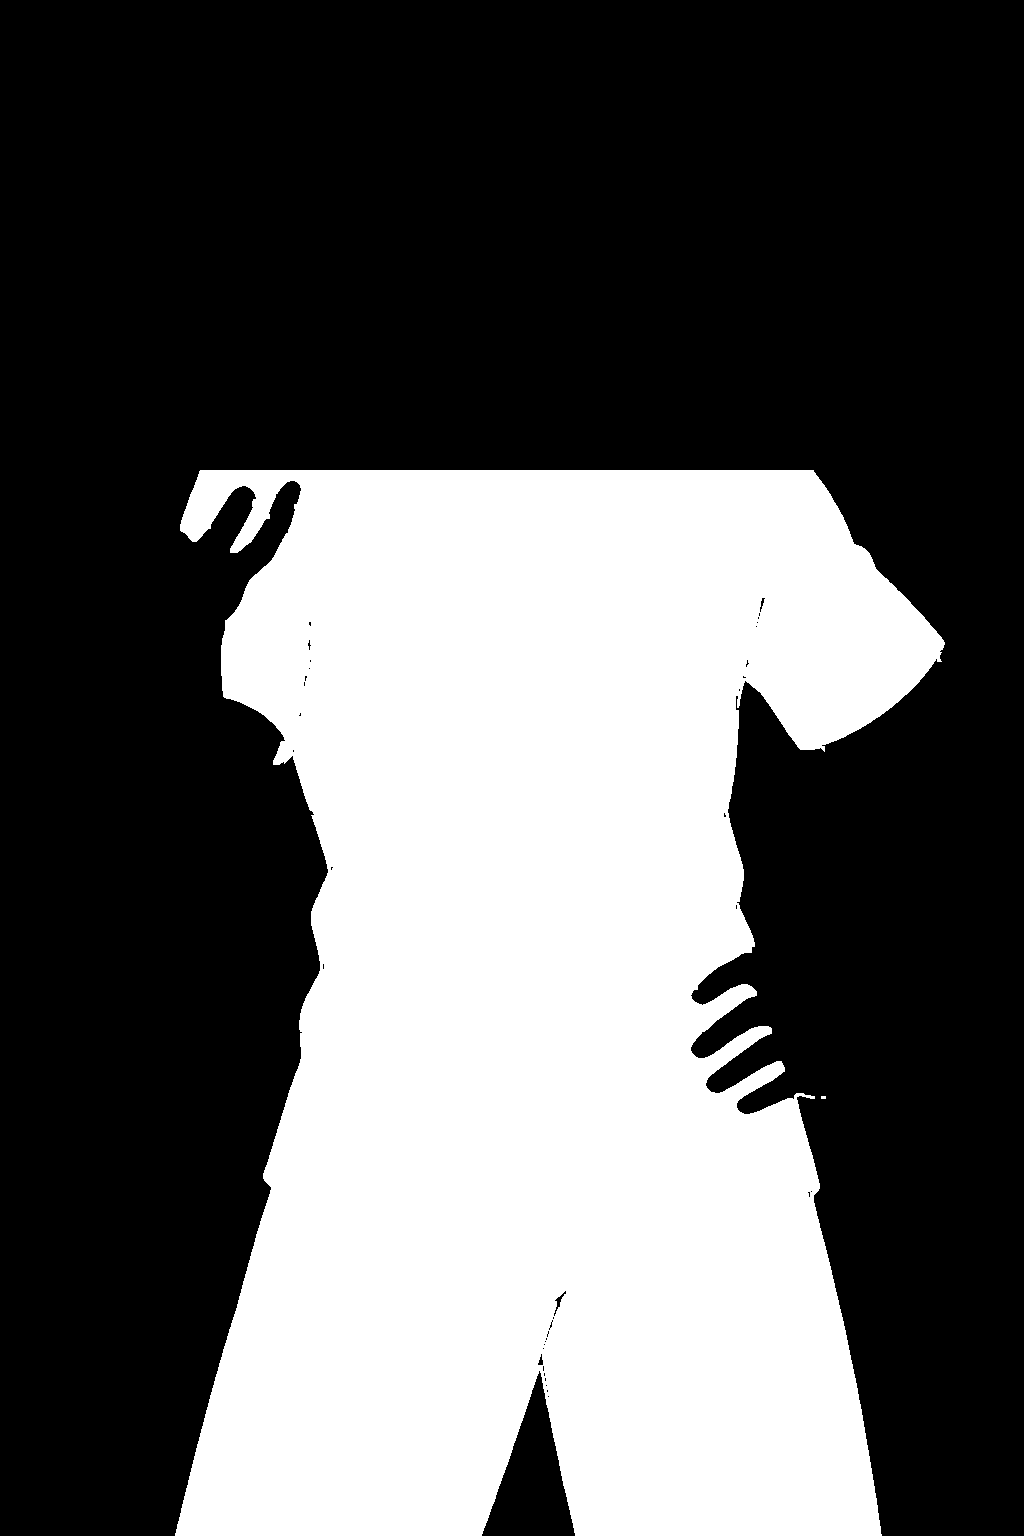
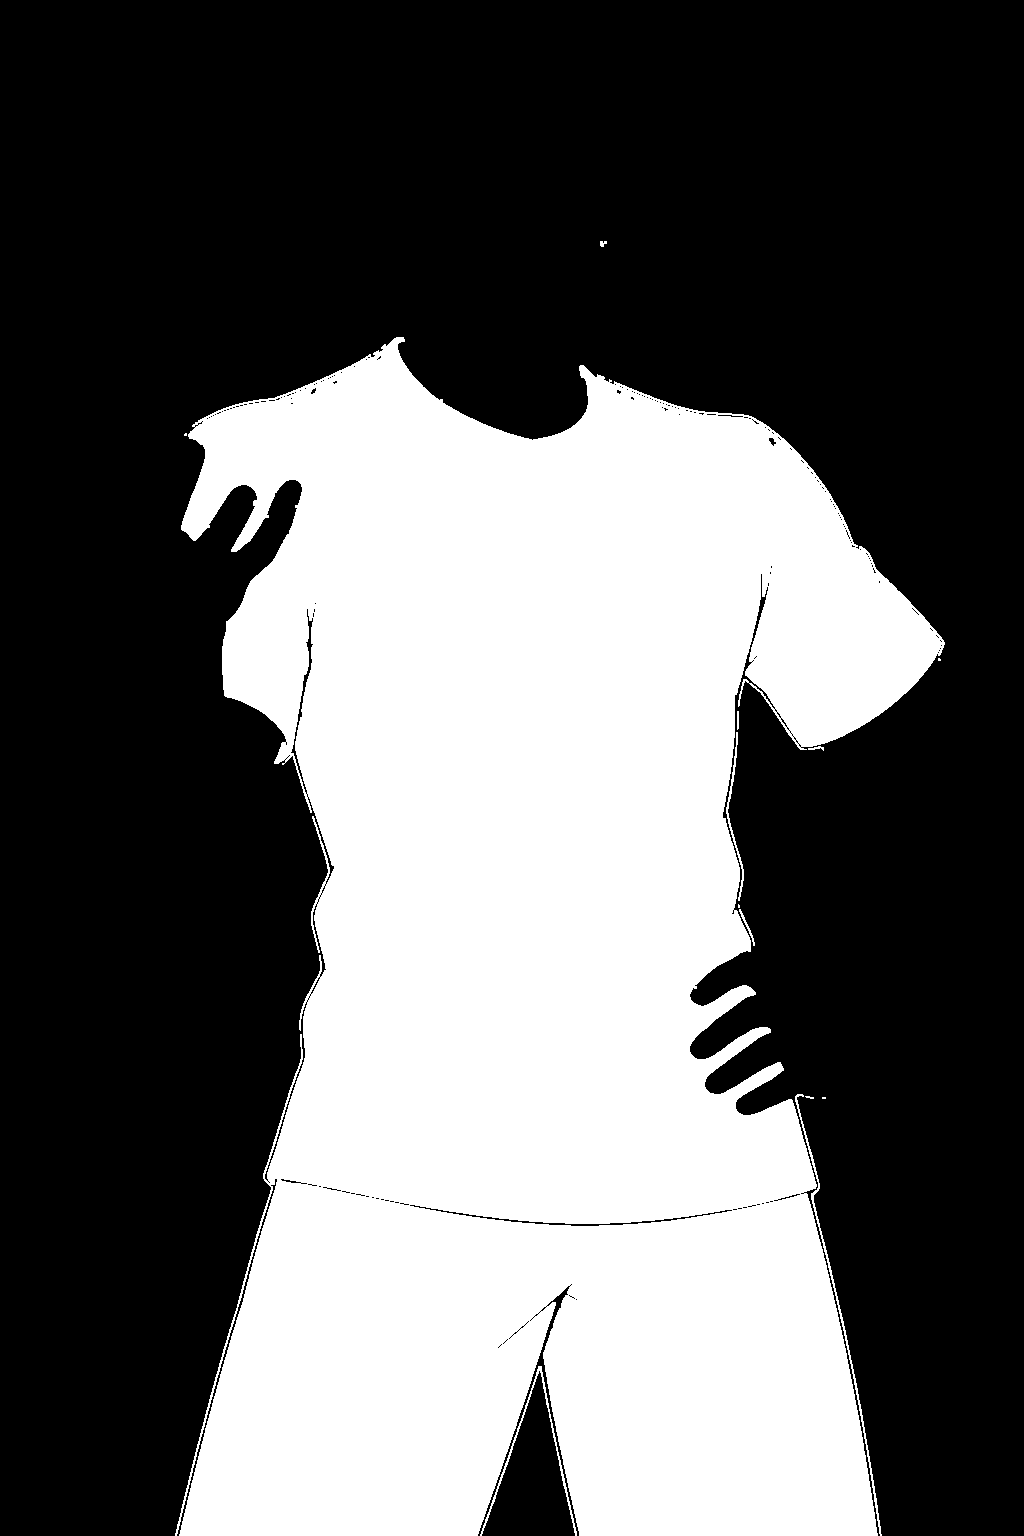
Fix clothing masks clipping collar by removing head Y-cutoff.
Regenerate the 13 Yamal-blocking masks as generated-only and leave them for visual approval before any outfit work.

Changed region(s): [[0.1875, 0.2188, 0.7812, 0.3125], [0.5312, 0.8438, 0.5625, 0.875]]

diff --git a/scripts/test_generate_clothing_mask.py b/scripts/test_generate_clothing_mask.py
@@ -1,0 +1,148 @@
+#!/usr/bin/env python3
+"""Offline regression tests for clothing-mask generation (no head Y-cutoff)."""
+
+from __future__ import annotations
+
+import sys
+import tempfile
+from pathlib import Path
+
+from PIL import Image
+
+sys.path.insert(0, str(Path(__file__).resolve().parent))
+import generate_clothing_mask as gcm
+
+
+def assert_true(cond: bool, message: str) -> None:
+    if not cond:
+        raise AssertionError(message)
+
+
+def solid(rgb: tuple[int, int, int], size: tuple[int, int] = (1, 1)) -> Image.Image:
+    return Image.new("RGBA", size, (*rgb, 255))
+
+
+def test_no_head_ratio_constant() -> None:
+    assert_true(not hasattr(gcm, "HEAD_RATIO"), "HEAD_RATIO must be removed")
+    source = Path(gcm.__file__).read_text(encoding="utf-8")
+    assert_true("head_cut" not in source, "head_cut must be removed from generator")
+    assert_true("HEAD_RATIO" not in source, "HEAD_RATIO must be removed from generator")
+
+
+def make_fixture() -> Image.Image:
+    """Synthetic waist-up character with collar above old 30% cut."""
+    img = Image.new("RGBA", (200, 300), (0, 0, 0, 0))
+    px = img.load()
+    # Opaque character column.
+    for y in range(20, 280):
+        for x in range(60, 140):
+            px[x, y] = (20, 20, 20, 255)
+    # Dark head/neck in top 25% of bbox (old cutoff would hide everything above ~30%).
+    for y in range(20, 70):
+        for x in range(70, 130):
+            px[x, y] = (55, 35, 28, 255)  # dark skin
+    # Collar / shoulder garment ABOVE old 30% cut of bbox height 260 → cut at ~98.
+    # Place collar at y=75-95 (still above 98).
+    for y in range(72, 100):
+        for x in range(65, 135):
+            if 70 <= x <= 130 and y < 72:
+                continue
+            px[x, y] = (0x81, 0x16, 0x2D, 255)  # garnet jersey
+    # Shoulder caps
+    for y in range(95, 120):
+        for x in range(55, 145):
+            if x < 70 or x > 130:
+                px[x, y] = (0x81, 0x16, 0x2D, 255)
+    # Torso
+    for y in range(100, 200):
+        for x in range(70, 130):
+            px[x, y] = (0x81, 0x16, 0x2D, 255)
+    # Short sleeves + adjacent dark arms/hands (must stay out of mask)
+    for y in range(120, 170):
+        for x in range(40, 60):
+            px[x, y] = (50, 32, 26, 255)  # arm skin
+        for x in range(140, 160):
+            px[x, y] = (50, 32, 26, 255)
+    for y in range(110, 145):
+        for x in range(58, 72):
+            px[x, y] = (0x81, 0x16, 0x2D, 255)  # short sleeve
+        for x in range(128, 142):
+            px[x, y] = (0x81, 0x16, 0x2D, 255)
+    # Visible shorts
+    for y in range(200, 250):
+        for x in range(75, 125):
+            px[x, y] = (0x17, 0x21, 0x46, 255)  # navy shorts
+    return img
+
+
+def test_fixture_regions() -> None:
+    img = make_fixture()
+    mask = gcm.build_mask(img)
+    m = mask.load()
+    # 1) Collar/shoulder above old 30% cutoff included
+    assert_true(m[100, 80] >= 128, "collar above old cutoff must be included")
+    assert_true(m[58, 110] >= 128, "left shoulder/sleeve must be included")
+    # 2) Dark head/neck excluded
+    assert_true(m[100, 40] < 128, "dark head/neck must be excluded")
+    # 3) Dark arms/hands excluded
+    assert_true(m[45, 140] < 128, "dark arm must be excluded")
+    assert_true(m[150, 140] < 128, "dark arm must be excluded")
+    # 4) Shorts included
+    assert_true(m[100, 220] >= 128, "shorts must be included")
+    # Torso included
+    assert_true(m[100, 150] >= 128, "torso must be included")
+
+
+def test_generated_status_not_approved(tmp: Path) -> None:
+    # Ensure generate_one always writes status=generated
+    pose = {
+        "id": "synthetic-fixture-pose",
+        "file": "poses/_test/synthetic.png",
+        "sha256": "abc",
+        "approved": True,
+    }
+    pose_dir = gcm.MASCOT / "poses" / "_test"
+    pose_dir.mkdir(parents=True, exist_ok=True)
+    pose_path = pose_dir / "synthetic.png"
+    make_fixture().save(pose_path)
+    try:
+        # monkeypatch pose_path via writing expected relative file
+        record = gcm.generate_one(pose)
+        assert_true(record["status"] == "generated", record)
+        assert_true(record["status"] != "approved", "must never auto-approve")
+        mask_file = gcm.MASCOT / record["file"]
+        assert_true(mask_file.exists(), mask_file)
+    finally:
+        mask_file = gcm.MASCOT / "pose-masks" / "synthetic-fixture-pose.png"
+        if mask_file.exists():
+            mask_file.unlink()
+        if pose_path.exists():
+            pose_path.unlink()
+
+
+def main() -> int:
+    failed = 0
+
+    def run(name, fn):
+        nonlocal failed
+        try:
+            fn()
+            print(f"OK    {name}")
+        except Exception as exc:  # noqa: BLE001
+            failed += 1
+            print(f"FAIL  {name}: {exc}")
+
+    run("no_head_ratio_constant", test_no_head_ratio_constant)
+    run("fixture_regions", test_fixture_regions)
+    with tempfile.TemporaryDirectory() as tmp:
+        run("generated_status_not_approved", lambda: test_generated_status_not_approved(Path(tmp)))
+
+    if failed:
+        print(f"FAIL  {failed} test(s)")
+        return 1
+    print("PASS  clothing mask generator tests")
+    return 0
+
+
+if __name__ == "__main__":
+    sys.exit(main())

diff --git a/scripts/generate_clothing_mask.py b/scripts/generate_clothing_mask.py
@@ -23,7 +23,6 @@ from mascot_common import (
 
 GARNET = (0x81, 0x16, 0x2D)
 NAVY = (0x17, 0x21, 0x46)
-HEAD_RATIO = 0.30
 RGB_LIMIT = 82.0
 NAVY_LIMIT = 70.0
 
@@ -49,21 +48,40 @@ def hsv(rgb: tuple[int, int, int]) -> tuple[float, float, float]:
     return h, s, mx
 
 
+def is_skin(rgb: tuple[int, int, int]) -> bool:
+    """Exclude head/neck/arms/hands via color, not a global Y cut."""
+    h, s, v = hsv(rgb)
+    # Near-neutral dark skin / lips / brows.
+    if s < 0.18 and v < 0.55:
+        return True
+    # Typical warm skin hues. Do not treat clear jersey garnet as skin.
+    if 3 <= h <= 55 and 0.12 <= s <= 0.70 and 0.10 <= v <= 0.95:
+        if rgb_dist(rgb, GARNET) > RGB_LIMIT * 0.75:
+            return True
+    return False
+
+
 def is_garment(rgb: tuple[int, int, int]) -> bool:
+    """Classify jersey fabric only. No vertical/head cutoff."""
+    if is_skin(rgb):
+        return False
     h, s, v = hsv(rgb)
     # Black mask/skin is near-neutral. Jersey navy is saturated blue.
-    if s < 0.32:
+    if s < 0.28:
         return False
     if rgb_dist(rgb, GARNET) <= RGB_LIMIT:
         return True
-    if rgb_dist(rgb, NAVY) <= NAVY_LIMIT and s >= 0.40:
+    if rgb_dist(rgb, NAVY) <= NAVY_LIMIT and s >= 0.38:
         return True
     garnet_hue = abs(h - 348) <= 28 or h <= 14
     navy_hue = 205 <= h <= 250
+    # Hue fallback only when reasonably close to jersey palette.
     if garnet_hue and s >= 0.35 and 0.14 <= v <= 0.80:
-        return True
+        if rgb_dist(rgb, GARNET) <= RGB_LIMIT * 1.25:
+            return True
     if navy_hue and s >= 0.40 and 0.08 <= v <= 0.50:
-        return True
+        if rgb_dist(rgb, NAVY) <= NAVY_LIMIT * 1.35:
+            return True
     return False
 
 
@@ -74,6 +92,7 @@ def character_bbox(image: Image.Image) -> tuple[int, int, int, int] | None:
 
 
 def build_mask(image: Image.Image) -> Image.Image:
+    """Mask every garment pixel inside the opaque character bbox (full height)."""
     rgba = image.convert("RGBA")
     width, height = rgba.size
     bbox = character_bbox(rgba)
@@ -82,12 +101,9 @@ def build_mask(image: Image.Image) -> Image.Image:
         return mask
 
     left, top, right, bottom = bbox
-    head_cut = top + int((bottom - top) * HEAD_RATIO)
     pixels = rgba.load()
     out = mask.load()
     for y in range(top, bottom):
-        if y < head_cut:
-            continue
         for x in range(left, right):
             r, g, b, a = pixels[x, y]
             if a < 16:
@@ -95,7 +111,8 @@ def build_mask(image: Image.Image) -> Image.Image:
             if is_garment((r, g, b)):
                 out[x, y] = 255
 
-    mask = mask.filter(ImageFilter.MaxFilter(5))
+    # Small morphology to close antialiased garment edge gaps — not a silhouette dilate.
+    mask = mask.filter(ImageFilter.MaxFilter(3))
     mask = mask.filter(ImageFilter.MinFilter(3))
     mask = mask.filter(ImageFilter.MaxFilter(3))
 
@@ -133,20 +150,40 @@ def main() -> int:
     parser = argparse.ArgumentParser(description=__doc__)
     parser.add_argument("pose", nargs="?", help="Pose id, e.g. argument")
     parser.add_argument("--all", action="store_true", help="Generate masks for every pose")
+    parser.add_argument(
+        "--poses",
+        type=str,
+        default=None,
+        help="Comma-separated pose ids to regenerate",
+    )
     args = parser.parse_args()
-    if not args.pose and not args.all:
-        parser.error("pass a pose id or --all")
+    if not args.pose and not args.all and not args.poses:
+        parser.error("pass a pose id, --poses a,b,c or --all")
 
     poses = load_poses().get("poses", [])
     by_id = {item["id"]: item for item in poses}
-    targets = list(poses) if args.all else [by_id.get(args.pose)]
-    if not args.all and targets[0] is None:
-        print(f"ERROR unknown pose `{args.pose}`")
-        return 1
+    if args.all:
+        targets = list(poses)
+    elif args.poses:
+        targets = []
+        for pose_id in [p.strip() for p in args.poses.split(",") if p.strip()]:
+            pose = by_id.get(pose_id)
+            if pose is None:
+                print(f"ERROR unknown pose `{pose_id}`")
+                return 1
+            targets.append(pose)
+    else:
+        pose = by_id.get(args.pose)
+        if pose is None:
+            print(f"ERROR unknown pose `{args.pose}`")
+            return 1
+        targets = [pose]
 
     existing = {item["basePose"]: item for item in load_masks().get("masks", [])}
     for pose in targets:
         record = generate_one(pose)
+        # Never auto-approve regenerated masks.
+        record["status"] = "generated"
         existing[record["basePose"]] = record
         print(f"OK    {record['basePose']} -> {record['file']} status=generated")
 
